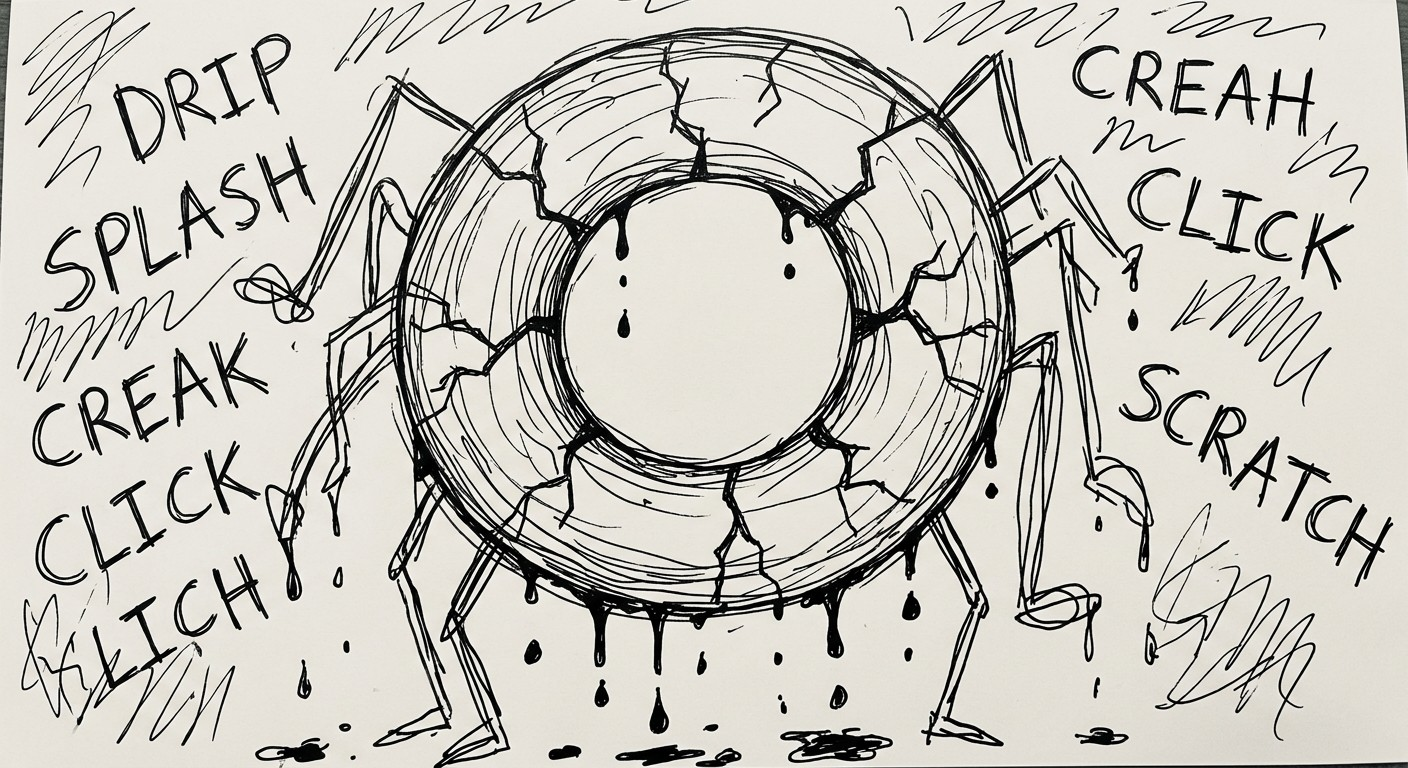
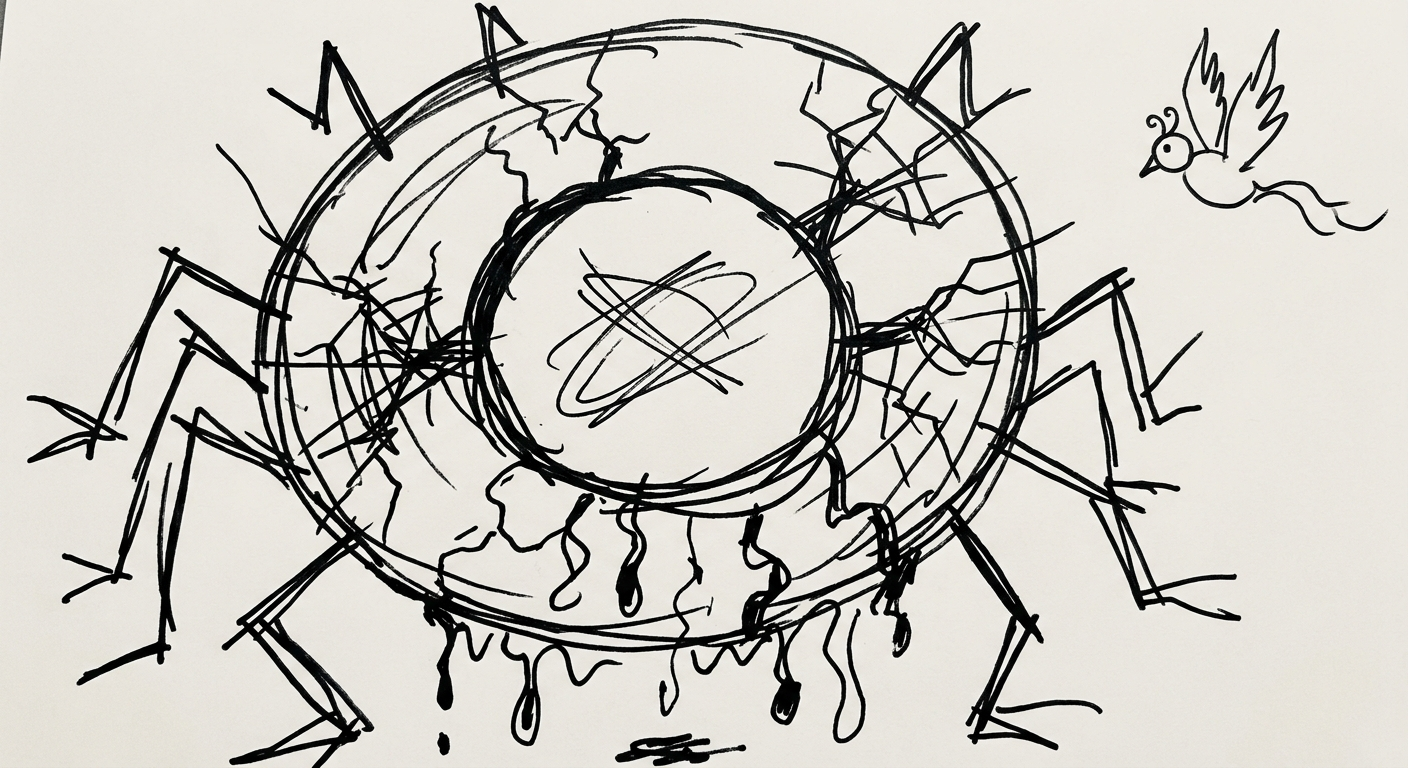
updated

diff --git a/src/www/nox-knight.md b/src/www/nox-knight.md
@@ -5,10 +5,7 @@ permalink: /nox-knight/
 paper: true
 ---
 
-# Nox Knight
-_Protagonist_
-
-### Identity
+<small><strong>→</strong> <a href="#description">Description</a> | <a href="#personality">Personality</a> | <a href="#cornerstones">The Four Corner Stones</a> | <a href="#pillars">The Four Pillars</a> | <a href="#favorites">Favorites</a> | <a href="#sheet">Character Sheet</a> | <a href="#history">History</a> | <a href="#portrait">Portrait</a></small>  
 
 **Name:** Nox Knight  
 **Case ID Number:** N0x-Kn19h7-1123  
@@ -25,6 +22,7 @@ _Protagonist_
 * **Biological Father:** Kai Viddens (unknown)
 * **Biological Mother:** Leanne Sétanta (unknown & deceased)
 
+<a name="description"></a>  
 ### Description
 
 **Hair:** Long textured quiff with low taper, widow’s peak, a red not normal for humans  
@@ -43,6 +41,7 @@ _Protagonist_
 **Coordination:** Highly coordinated and graceful  
 **Weaknesses:** body dysmorphia
 
+<a name="personality"></a>  
 ### Personality
 
 **Zodiac**: Cancer  
@@ -89,6 +88,7 @@ _Protagonist_
     * In bed at 12:07.
     * Woken at 3:53.
 
+<a name="cornerstones"></a>  
 ### The Four Cornerstones
 
 **The Fear:** that he isn’t keepable.
@@ -101,6 +101,7 @@ _Protagonist_
 
 **The Lie:** if he’s useful enough, they’ll keep him.
 
+<a name="pillars"></a>  
 ### The Four Pillars
 
 **The Desire:** to sleep
@@ -113,6 +114,7 @@ _Protagonist_
 
 **What changes:** he starts having to earn every room and ends by letting himself be kept
 
+<a name="favorites"></a>  
 ### Favorites:
 
 * **song:** The Sound of Silence (performed by Alex but Disturbed is close)
@@ -132,6 +134,7 @@ _Protagonist_
 * **kink:** submission
 * **mode of transportation:** subway
 
+<a name="sheet"></a>  
 # Character Sheet
 
 **Nox Knight** is a [graceful] [mundane] [Feras] [Improviser] who [can see patterns].
@@ -229,6 +232,7 @@ _Protagonist_
 
 **Kan** _[level 6 → chaos, space, summon, pm 2]_: A conjured spell that allows Nox to bring a small object to his hand across a room.
 
+<a name="history"></a>  
 # History
 
 (childhood) **Orphaned under Dying Stars** — Nox was born under twin stars dying. A three day stretch of mystical energies bathing the earth and cracking the veil that keeps magic hidden from the world.
@@ -259,4 +263,6 @@ It wasn’t enough to get his own place, but now he had some cash. And he still 
 
 He was able to move into a better place in Hell’s Kitchen where he can do his art, cook and is within walking or subway distance of all his favorite places.
 
-![image](https://files.dabblewriter.com/content/images/d4f88fbef8a04a74ac7a18c5dd2d9b795c7c30fc.png)
+<a name="portrait"></a>  
+![image](https://files.dabblewriter.com/content/images/0e79e83260984d5989685ab318df7721eb055a0a.jpg)
+

diff --git a/src/www/aj-hunter.md b/src/www/aj-hunter.md
@@ -4,4 +4,14 @@ title: AJ Hunter
 permalink: /aj-hunter/
 ---
 
-AJ Hunter page text goes here.
+AJ is my creator. Due to a few gender related issues with myself AJ prefers to remain anonymous in general – letting you guess about AJ’s identity. It’s difficult to speak without overusing AJ all the time, but we manage. I don’t do a lot of talking about AJ anyway – this is about me after all. I’m the important one here. \*sticks tongue out at AJ\*
+
+AJ has two lovely daughters, both grown and learning all about what adulting really means. They totally wish they were still kids.
+
+AJ’s spouse is sarcastic and and the biggest child of the bunch. They met at an online community for The Wheel of Time. <a href="https://dragonmount.com">Dragonmount</a> was part of their lives for many years – even traveling to Atlanta, GA for the first ever Wheel of Time Track at Dragon*Con. They missed meeting Robert Jordan himself because of Hurricane Katrina. They have been happily married since 2001 and see a long life together.
+
+During the day AJ writes code for a novel writing software company called Dabble. Talk about a dream job, she gets to work on the very software she uses to write all about me! AJ likes to write — obviously. Also read, playing video games – specifically RPG type games. AJ’s current favorite is Baldur’s Gate 3. But she adores the Dragon Age and Mass Effect franchises.
+
+Much of AJ’s inspiration comes from the Wheel of Time. But since most of it stems from the supernatural authors like Laurell K Hamilton, Patricia Briggs and most recently Jim Butcher have inspired AJ’s stories. Not to mention TV shows like Supernatural and Shadowhunters.
+
+AJ finished her first novella during NaNoWriMo’s 2013 challenge. It was all about Cari, a vampire enforcer who woke to a world that had changed drastically after the vampires took over the world. But then she found me in 2015 and we haven’t looked back. My story has been written and rewritten countless times with no end in sight.
